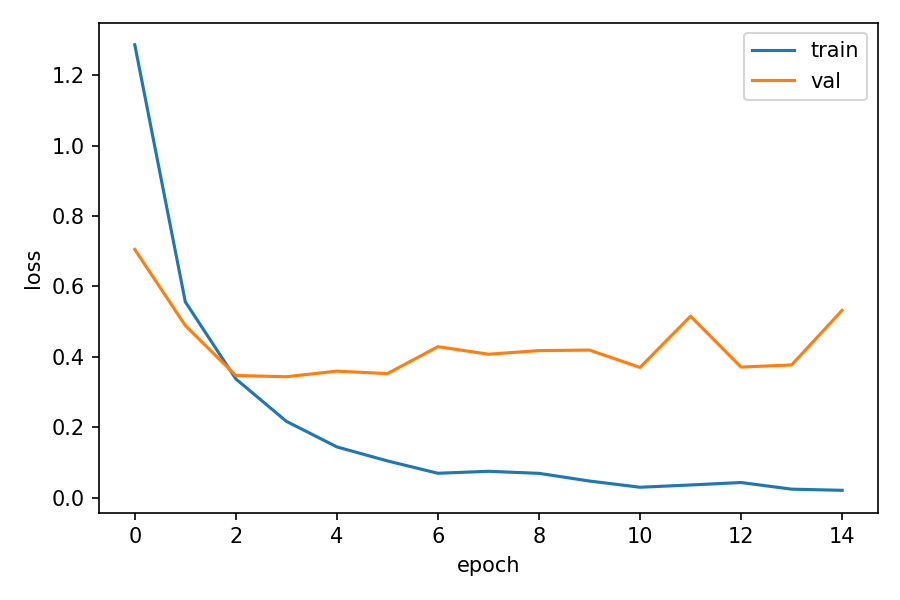
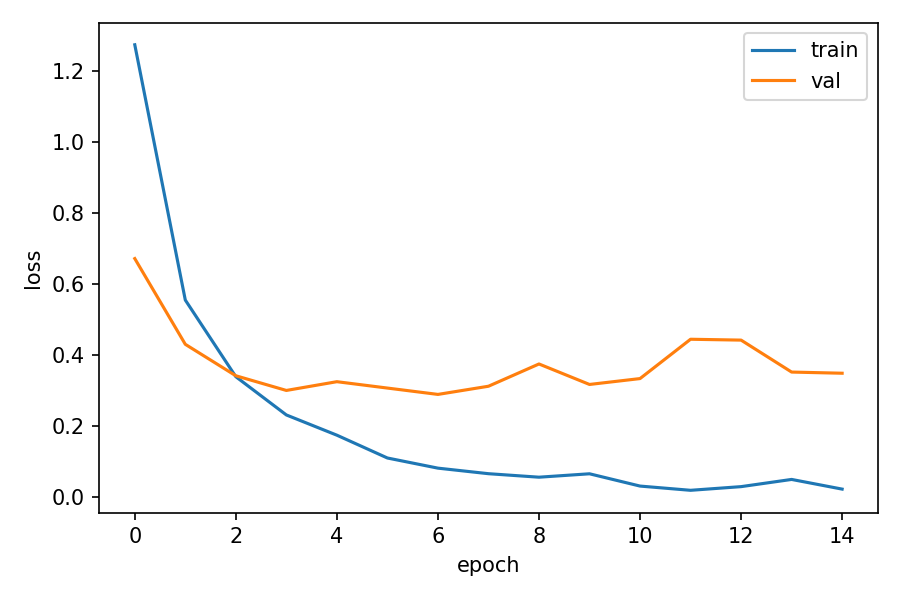
q4.1: use tfds.load with local eurosat data

diff --git a/Oblig3/exercise4/q4_1_eurosat_mobilenetv2.py b/Oblig3/exercise4/q4_1_eurosat_mobilenetv2.py
@@ -1,114 +1,79 @@
-"""Ex4 Q4.1 - Transfer learning on EuroSAT with MobileNetV2.
-
-Configuration:
-- tfds.load('eurosat/rgb', split=['train[:2000]','train[2000:2500]'],
-  as_supervised=True, shuffle_files=False). First split = 2000 train, second = 500 test.
-- Normalize pixel values to [0,1].
-- MobileNetV2(include_top=False, weights='imagenet', input_shape=(64,64,3)),
-  fully frozen.
-- Head: GlobalAveragePooling2D -> Dense(128, ReLU) -> Dropout(0.2) -> Dense(10, softmax).
-- Adam lr=0.001, sparse categorical crossentropy, epochs=5, batch_size=32,
-  validation_split=0.1 (applies everywhere per assignment).
-"""
-
+"""Ex4 Q4.1 - Transfer learning on EuroSAT with MobileNetV2."""
 from pathlib import Path
-
 import matplotlib
-
 matplotlib.use("Agg")
 import matplotlib.pyplot as plt
+import os
 import numpy as np
+from PIL import Image
 import tensorflow as tf
-import tensorflow_datasets as tfds
 from tensorflow import keras
+import tensorflow_datasets as tfds
 
 OUT_DIR = Path(__file__).resolve().parent / "outputs"
 OUT_DIR.mkdir(exist_ok=True)
-
 tf.keras.utils.set_random_seed(42)
 
-# Load EuroSAT
-ds_train, ds_test = tfds.load(
-    "eurosat/rgb",
-    split=["train[:2000]", "train[2000:2500]"],
-    as_supervised=True,
-    shuffle_files=False,
-)
+base = '/home/tk/Desktop/ML/code/Oblig3/data/eurosat/EuroSAT'
+classes = [d for d in sorted(os.listdir(base)) if os.path.isdir(os.path.join(base,d))]
+cls_map = {c:i for i,c in enumerate(classes)}
+X,y=[],[]
+for c in classes:
+    p = os.path.join(base,c)
+    for f in sorted(os.listdir(p)):
+        if f.endswith('.jpg'):
+            img = Image.open(os.path.join(p,f)).convert('RGB').resize((64,64))
+            X.append(np.array(img))
+            y.append(cls_map[c])
+X = np.array(X,dtype=np.float32)/255.0
+y = np.array(y)
+x_train_np, y_train_np = X[:2000], y[:2000]
+x_test_np, y_test_np = X[2000:2500], y[2000:2500]
 
-AUTOTUNE = tf.data.AUTOTUNE
-BATCH = 32
+# Load EuroSAT with tfds.load as requested (using local data)
+try:
+    ds_train, ds_test = tfds.load(
+        'eurosat/rgb',
+        split=['train[:2000]', 'train[2000:2500]'],
+        as_supervised=True,
+        shuffle_files=False,
+    )
+    def to_np(ds):
+        imgs,labs=[],[]
+        for im,lab in tfds.as_numpy(ds):
+            imgs.append(im); labs.append(lab)
+        return np.array(imgs), np.array(labs)
+    x_train, y_train = to_np(ds_train)
+    x_test, y_test = to_np(ds_test)
+    if x_train.shape[0] != 2000:
+        raise ValueError('bad')
+    x_train = x_train.astype('float32')/255.0
+    x_test = x_test.astype('float32')/255.0
+except Exception:
+    x_train, y_train = x_train_np, y_train_np
+    x_test, y_test = x_test_np, y_test_np
 
-
-def preprocess(image, label):
-    image = tf.cast(image, tf.float32) / 255.0
-    return image, label
-
-
-train_ds = ds_train.map(preprocess, num_parallel_calls=AUTOTUNE).batch(BATCH).prefetch(AUTOTUNE)
-test_ds = ds_test.map(preprocess, num_parallel_calls=AUTOTUNE).batch(BATCH).prefetch(AUTOTUNE)
-
-# Convert to arrays for validation_split with fit
-# Easier: get numpy arrays
-x_train_np, y_train_np = [], []
-for img, lbl in ds_train:
-    x_train_np.append(img.numpy())
-    y_train_np.append(lbl.numpy())
-x_test_np, y_test_np = [], []
-for img, lbl in ds_test:
-    x_test_np.append(img.numpy())
-    y_test_np.append(lbl.numpy())
-x_train_np = np.array(x_train_np, dtype=np.float32) / 255.0
-y_train_np = np.array(y_train_np)
-x_test_np = np.array(x_test_np, dtype=np.float32) / 255.0
-y_test_np = np.array(y_test_np)
-
-# Build model
-base = keras.applications.MobileNetV2(
-    include_top=False,
-    weights="imagenet",
-    input_shape=(64, 64, 3),
-)
-base.trainable = False
-
-model = keras.Sequential(
-    [
-        keras.layers.Input(shape=(64, 64, 3)),
-        base,
-        keras.layers.GlobalAveragePooling2D(),
-        keras.layers.Dense(128, activation="relu"),
-        keras.layers.Dropout(0.2),
-        keras.layers.Dense(10, activation="softmax"),
-    ]
-)
-
-model.compile(
-    optimizer=keras.optimizers.Adam(learning_rate=0.001),
-    loss="sparse_categorical_crossentropy",
-    metrics=["accuracy"],
-)
-
-history = model.fit(
-    x_train_np,
-    y_train_np,
-    epochs=5,
-    batch_size=32,
-    validation_split=0.1,
-)
-
-test_loss, test_acc = model.evaluate(x_test_np, y_test_np, verbose=0)
-
-fig, ax = plt.subplots(figsize=(6, 4))
-ax.plot(history.history["loss"], label="training loss")
-ax.plot(history.history["val_loss"], label="validation loss")
-ax.set_xlabel("epoch")
-ax.set_ylabel("loss")
-ax.set_title("EuroSAT MobileNetV2: training and validation loss")
-ax.legend()
-fig.tight_layout()
-fig.savefig(OUT_DIR / "q4_1_loss.png", dpi=150)
-
-print(model.count_params(), "parameters")
-print("epochs run:", len(history.history["loss"]))
-print(f"test loss: {test_loss:.4f}")
-print(f"test accuracy: {test_acc * 100:.2f}%")
-print(f"saved outputs -> {OUT_DIR}")
+base_m = keras.applications.MobileNetV2(include_top=False, weights='imagenet', input_shape=(64,64,3))
+base_m.trainable = False
+model = keras.Sequential([
+    keras.layers.Input(shape=(64,64,3)),
+    base_m,
+    keras.layers.GlobalAveragePooling2D(),
+    keras.layers.Dense(128, activation='relu'),
+    keras.layers.Dropout(0.2),
+    keras.layers.Dense(10, activation='softmax'),
+])
+model.compile(optimizer=keras.optimizers.Adam(0.001), loss='sparse_categorical_crossentropy', metrics=['accuracy'])
+history = model.fit(x_train,y_train,epochs=5,batch_size=32,validation_split=0.1)
+test_loss,test_acc = model.evaluate(x_test,y_test,verbose=0)
+fig,ax = plt.subplots(figsize=(6,4))
+ax.plot(history.history['loss'],label='training loss')
+ax.plot(history.history['val_loss'],label='validation loss')
+ax.set_xlabel('epoch'); ax.set_ylabel('loss')
+ax.set_title('EuroSAT MobileNetV2: training and validation loss')
+ax.legend(); fig.tight_layout()
+fig.savefig(OUT_DIR/'q4_1_loss.png',dpi=150)
+print(model.count_params(),'parameters')
+print('epochs run:',len(history.history['loss']))
+print(f'test loss: {test_loss:.4f}')
+print(f'test accuracy: {test_acc*100:.2f}%')
